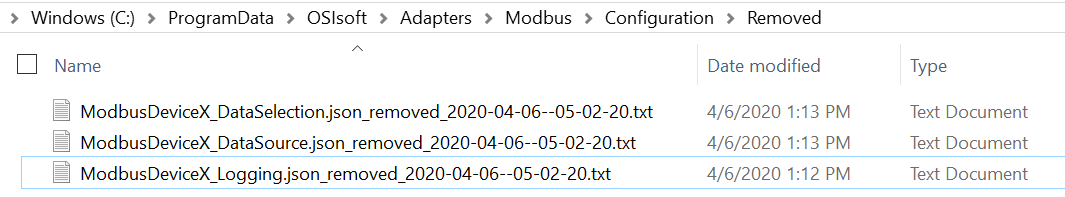
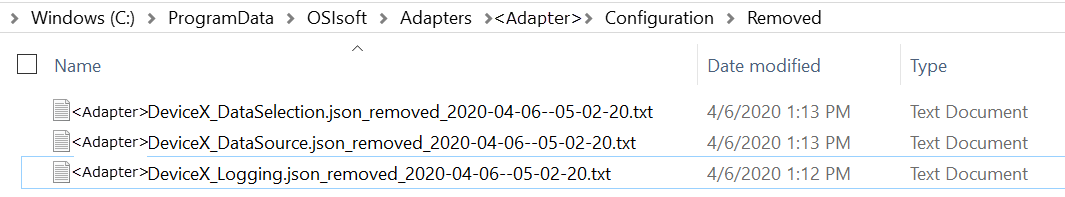
Updated componentId to ComponentId

diff --git a/V1.3/Configuration/system-components-configuration.md b/V1.3/Configuration/system-components-configuration.md
@@ -51,14 +51,14 @@ Complete the following steps to add a new component to the system:
         curl -d "@AddComponent.json" -H "Content-Type: application/json" -X POST "http://localhost:5590/api/v1/configuration/system/components"
         ```
 
-    - **PUT** endpoint: `http://localhost:5590/api/v1/configuration/system/components/<componentId>`
+    - **PUT** endpoint: `http://localhost:5590/api/v1/configuration/system/components/<ComponentId>`
 
         Example using `curl`:
 
         **Note:** Run this command from the same directory where the file is located.
 
         ```bash
-        curl -d "@AddComponent.json" -H "Content-Type: application/json" -X PUT "http://localhost:5590/api/v1/configuration/system/components/<componentId>"
+        curl -d "@AddComponent.json" -H "Content-Type: application/json" -X PUT "http://localhost:5590/api/v1/configuration/system/components/<ComponentId>"
         ```
 
     After the curl command completes successfully, you can configure or use the new component.
@@ -103,7 +103,7 @@ Complete the following steps to delete a specific existing component:
     *Delete adapter component*
   
     ```bash
-    curl -X DELETE "http://localhost:5590/api/v1/configuration/system/components/<componentId>/"
+    curl -X DELETE "http://localhost:5590/api/v1/configuration/system/components/<ComponentId>/"
     ```
 
     All the logs and configurations files for the deleted components are moved to the corresponding _logs/Removed_ or _Configuration/Removed_ folder.
@@ -168,5 +168,5 @@ The default _System_Components.json_ file for the System component contains the 
 | api/v1/configuration/system/components | GET | Retrieves  the system components configuration |
 | api/v1/configuration/system/components | POST | Adds a new component to the system configuration |
 | api/v1/configuration/system/components | PUT | Updates the system components configuration |
-| api/v1/configuration/system/components/_componentId_ | DELETE | Deletes a specific component from the system components configuration |
-| api/v1/configuration/system/components/_componentId_ | PUT | Creates a new component with the specified *componentId* in the system configuration
+| api/v1/configuration/system/components/_ComponentId_ | DELETE | Deletes a specific component from the system components configuration |
+| api/v1/configuration/system/components/_ComponentId_ | PUT | Creates a new component with the specified *ComponentId* in the system configuration

diff --git a/V1.4/Configuration/system-components-configuration.md b/V1.4/Configuration/system-components-configuration.md
@@ -51,14 +51,14 @@ Complete the following steps to add a new component to the system:
         curl -d "@AddComponent.json" -H "Content-Type: application/json" -X POST "http://localhost:5590/api/v1/configuration/system/components"
         ```
 
-    - **PUT** endpoint: `http://localhost:5590/api/v1/configuration/system/components/<componentId>`
+    - **PUT** endpoint: `http://localhost:5590/api/v1/configuration/system/components/<ComponentId>`
 
         Example using `curl`:
 
         **Note:** Run this command from the same directory where the file is located.
 
         ```bash
-        curl -d "@AddComponent.json" -H "Content-Type: application/json" -X PUT "http://localhost:5590/api/v1/configuration/system/components/<componentId>"
+        curl -d "@AddComponent.json" -H "Content-Type: application/json" -X PUT "http://localhost:5590/api/v1/configuration/system/components/<ComponentId>"
         ```
 
     After the curl command completes successfully, you can configure or use the new component.
@@ -103,7 +103,7 @@ Complete the following steps to delete a specific existing component:
     *Delete adapter component*
   
     ```bash
-    curl -X DELETE "http://localhost:5590/api/v1/configuration/system/components/<componentId>/"
+    curl -X DELETE "http://localhost:5590/api/v1/configuration/system/components/<ComponentId>/"
     ```
 
     All the logs and configurations files for the deleted components are moved to the corresponding _logs/Removed_ or _Configuration/Removed_ folder.
@@ -168,5 +168,5 @@ The default _System_Components.json_ file for the System component contains the 
 | api/v1/configuration/system/components | GET | Retrieves  the system components configuration |
 | api/v1/configuration/system/components | POST | Adds a new component to the system configuration |
 | api/v1/configuration/system/components | PUT | Updates the system components configuration |
-| api/v1/configuration/system/components/_componentId_ | DELETE | Deletes a specific component from the system components configuration |
-| api/v1/configuration/system/components/_componentId_ | PUT | Creates a new component with the specified *componentId* in the system configuration
+| api/v1/configuration/system/components/_ComponentId_ | DELETE | Deletes a specific component from the system components configuration |
+| api/v1/configuration/system/components/_ComponentId_ | PUT | Creates a new component with the specified *ComponentId* in the system configuration

diff --git a/V1.3/Administration/start-and-stop-ingress-component.md b/V1.3/Administration/start-and-stop-ingress-component.md
@@ -11,7 +11,7 @@ To control data ingress, you can start and stop the ingress components of an ada
 Complete the following steps to start an individual ingress component:
 
 1. Use any of the [Configuration tools](xref:ConfigurationTools1-3) capable of making HTTP requests.
-2. Run a `POST` command to the following endpoint, replacing `<componentId>` with the ingress component that you want to start: `http://localhost:5590/api/v1/administration/<componentId>/Start`
+2. Run a `POST` command to the following endpoint, replacing `<ComponentId>` with the ingress component that you want to start: `http://localhost:5590/api/v1/Administration/<ComponentId>/Start`
 
     **Note:** `5590` is the default port number. If you selected a different port number, replace it with that value.
 
@@ -20,7 +20,7 @@ Complete the following steps to start an individual ingress component:
     **Start the adapter ingress component**
 
     ```bash
-    curl -d "" -X POST "http://localhost:5590/api/v1/Administration/<componentId>/Start"
+    curl -d "" -X POST "http://localhost:5590/api/v1/Administration/<ComponentId>/Start"
     ```
 
 ## Stop an ingress component
@@ -29,7 +29,7 @@ Complete the following steps to stop an individual ingress component:
 
 1. Start any configuration tool capable of making HTTP requests.
 
-2. Run a `POST` command to the following endpoint, replacing `<componentId>` with the ingress component that you want to stop: `http://localhost:5590/api/v1/administration/<componentId>/Stop`
+2. Run a `POST` command to the following endpoint, replacing `<ComponentId>` with the ingress component that you want to stop: `http://localhost:5590/api/v1/Administration/<ComponentId>/Stop`
 
     **Note:** `5590` is the default port number. If you selected a different port number, replace it with that value.
 
@@ -38,5 +38,5 @@ Complete the following steps to stop an individual ingress component:
     **Stop the adapter ingress component**
 
     ```bash
-    curl -d "" -X POST "http://localhost:5590/api/v1/Administration/<componentId>/Stop"
+    curl -d "" -X POST "http://localhost:5590/api/v1/Administration/<ComponentId>/Stop"
     ```

diff --git a/V1.4/Administration/start-and-stop-ingress-component.md b/V1.4/Administration/start-and-stop-ingress-component.md
@@ -11,7 +11,7 @@ To control data ingress, you can start and stop the ingress components of an ada
 Complete the following steps to start an individual ingress component:
 
 1. Use any of the [Configuration tools](xref:ConfigurationTools1-4) capable of making HTTP requests.
-2. Run a `POST` command to the following endpoint, replacing `<componentId>` with the ingress component that you want to start: `http://localhost:5590/api/v1/administration/<componentId>/Start`
+2. Run a `POST` command to the following endpoint, replacing `<ComponentId>` with the ingress component that you want to start: `http://localhost:5590/api/v1/administration/<ComponentId>/Start`
 
     **Note:** `5590` is the default port number. If you selected a different port number, replace it with that value.
 
@@ -20,7 +20,7 @@ Complete the following steps to start an individual ingress component:
     **Start the adapter ingress component**
 
     ```bash
-    curl -d "" -X POST "http://localhost:5590/api/v1/Administration/<componentId>/Start"
+    curl -d "" -X POST "http://localhost:5590/api/v1/Administration/<ComponentId>/Start"
     ```
 
 ## Stop an ingress component
@@ -29,7 +29,7 @@ Complete the following steps to stop an individual ingress component:
 
 1. Start any configuration tool capable of making HTTP requests.
 
-2. Run a `POST` command to the following endpoint, replacing `<componentId>` with the ingress component that you want to stop: `http://localhost:5590/api/v1/administration/<componentId>/Stop`
+2. Run a `POST` command to the following endpoint, replacing `<ComponentId>` with the ingress component that you want to stop: `http://localhost:5590/api/v1/administration/<ComponentId>/Stop`
 
     **Note:** `5590` is the default port number. If you selected a different port number, replace it with that value.
 
@@ -38,5 +38,5 @@ Complete the following steps to stop an individual ingress component:
     **Stop the adapter ingress component**
 
     ```bash
-    curl -d "" -X POST "http://localhost:5590/api/v1/Administration/<componentId>/Stop"
+    curl -d "" -X POST "http://localhost:5590/api/v1/Administration/<ComponentId>/Stop"
     ```

diff --git a/V1.4/Administration/delete-an-adapter-component.md b/V1.4/Administration/delete-an-adapter-component.md
@@ -19,7 +19,7 @@ Complete the following steps to delete an adapter component:
     **Delete an adapter component**
 
       ```bash
-      curl -X DELETE "http://localhost:5590/api/v1/configuration/system/components/<componentId>"
+      curl -X DELETE "http://localhost:5590/api/v1/configuration/system/components/<ComponentId>"
       ```
 
 ## File relocation
@@ -38,9 +38,7 @@ Log files are moved to the following location:
 
    **Linux:** `/usr/share/OSIsoft/Adapters/AdapterName/Logs/Removed`
 
-In the following example, one Modbus adapter service is installed on a particular Windows node with the name `ModbusService1`. A Modbus component with the name `ModbusDeviceX` was added and configured to this Modbus adapter and later removed. Linux follows a similar behavior. This is the resulting relocation and renaming scheme after deletion:
-
-**Note:** This is an example; it does not necessarily represent the adapter that you are currently using.
+In the following example, one adapter service is installed on a particular Windows node with the name `<Adapter>Service1`. An adapter component with the name `<Adapter>DeviceX` was added and configured to this adapter and later removed. Linux follows a similar behavior. This is the resulting relocation and renaming scheme after deletion:
 
 ![ConfigurationFolder](../images/configuration-folder.png)
 
@@ -50,7 +48,6 @@ In the following example, one Modbus adapter service is installed on a particula
 
 ![RemovedLogs](../images/removed-logs.png)
  
-
 ## REST URLs
 
 | Relative URL                                              | HTTP verb | Action               |

diff --git a/V1/Administration/delete-an-adapter-component.md b/V1/Administration/delete-an-adapter-component.md
@@ -19,7 +19,7 @@ Complete the following steps to delete an adapter component:
     **Delete an adapter component**
 
       ```bash
-      curl -X DELETE "http://localhost:5590/api/v1/configuration/system/components/<componentId>"
+      curl -X DELETE "http://localhost:5590/api/v1/configuration/system/components/<ComponentId>"
       ```
 
 ## File relocation
@@ -38,9 +38,7 @@ Log files are moved to the following location:
 
    **Linux:** `/usr/share/OSIsoft/Adapters/AdapterName/Logs/Removed`
 
-In the following example, one Modbus adapter service is installed on a particular Windows node with the name `ModbusService1`. A Modbus component with the name `ModbusDeviceX` was added and configured to this Modbus adapter and later removed. Linux follows a similar behavior. This is the resulting relocation and renaming scheme after deletion:
-
-**Note:** This is an example; it does not necessarily represent the adapter that you are currently using.
+In the following example, one adapter service is installed on a particular Windows node with the name `<Adapter>Service1`. An adapter component with the name `<Adapter>DeviceX` was added and configured to this adapter and later removed. Linux follows a similar behavior. This is the resulting relocation and renaming scheme after deletion:
 
 ![ConfigurationFolder](../images/configuration-folder.png)
 
@@ -50,7 +48,6 @@ In the following example, one Modbus adapter service is installed on a particula
 
 ![RemovedLogs](../images/removed-logs.png)
  
-
 ## REST URLs
 
 | Relative URL                                              | HTTP verb | Action               |

diff --git a/V1/Configuration/system-components-configuration.md b/V1/Configuration/system-components-configuration.md
@@ -51,14 +51,14 @@ Complete the following steps to add a new component to the system:
         curl -d "@AddComponent.json" -H "Content-Type: application/json" -X POST "http://localhost:5590/api/v1/configuration/system/components"
         ```
 
-    - **PUT** endpoint: `http://localhost:5590/api/v1/configuration/system/components/<componentId>`
+    - **PUT** endpoint: `http://localhost:5590/api/v1/configuration/system/components/<ComponentId>`
 
         Example using `curl`:
 
         **Note:** Run this command from the same directory where the file is located.
 
         ```bash
-        curl -d "@AddComponent.json" -H "Content-Type: application/json" -X PUT "http://localhost:5590/api/v1/configuration/system/components/<componentId>"
+        curl -d "@AddComponent.json" -H "Content-Type: application/json" -X PUT "http://localhost:5590/api/v1/configuration/system/components/<ComponentId>"
         ```
 
     After the curl command completes successfully, you can configure or use the new component.
@@ -103,7 +103,7 @@ Complete the following steps to delete a specific existing component:
     *Delete adapter component*
   
     ```bash
-    curl -X DELETE "http://localhost:5590/api/v1/configuration/system/components/<componentId>/"
+    curl -X DELETE "http://localhost:5590/api/v1/configuration/system/components/<ComponentId>/"
     ```
 
     All the logs and configurations files for the deleted components are moved to the corresponding _logs/Removed_ or _Configuration/Removed_ folder.

diff --git a/V1/Administration/start-and-stop-ingress-component.md b/V1/Administration/start-and-stop-ingress-component.md
@@ -11,7 +11,7 @@ To control data ingress, you can start and stop the ingress components of an ada
 Complete the following steps to start an individual ingress component:
 
 1. Use any of the [Configuration tools](xref:ConfigurationTools) capable of making HTTP requests.
-2. Run a `POST` command to the following endpoint, replacing `<componentId>` with the ingress component that you want to start: `http://localhost:5590/api/v1/administration/<componentId>/Start`
+2. Run a `POST` command to the following endpoint, replacing `<ComponentId>` with the ingress component that you want to start: `http://localhost:5590/api/v1/Administration/<ComponentId>/Start`
 
     **Note:** `5590` is the default port number. If you selected a different port number, replace it with that value.
 
@@ -29,7 +29,7 @@ Complete the following steps to stop an individual ingress component:
 
 1. Start any configuration tool capable of making HTTP requests.
 
-2. Run a `POST` command to the following endpoint, replacing `<componentId>` with the ingress component that you want to stop: `http://localhost:5590/api/v1/administration/<componentId>/Stop`
+2. Run a `POST` command to the following endpoint, replacing `<ComponentId>` with the ingress component that you want to stop: `http://localhost:5590/api/v1/administration/<ComponentId>/Stop`
 
     **Note:** `5590` is the default port number. If you selected a different port number, replace it with that value.
 

diff --git a/V1.3/Configuration/discovery-configuration.md b/V1.3/Configuration/discovery-configuration.md
@@ -70,7 +70,7 @@ The following example shows the status of all discoveries. The discovery id in t
         "itemsFound": 4,
         "newItems": 0,
         "newAssets": 0,
-        "resultUri": "http://127.0.0.1:5590/api/v1/Configuration/<componentId>/Discoveries/8ff855f1-a636-490a-bb31-207410a6e607/result",
+        "resultUri": "http://127.0.0.1:5590/api/v1/Configuration/<ComponentId>/Discoveries/8ff855f1-a636-490a-bb31-207410a6e607/result",
         "autoSelect": false,
         "status": "Complete",
         "errors": null
@@ -94,4 +94,4 @@ The following example shows the status of all discoveries. The discovery id in t
 | api/v1/configuration/_componentId_/dataselection/select?discoveryid=_discoveryId_     | POST      | Adds the discovered items to data selection with selected set to `true`                                                                   |
 | api/v1/configuration/_componentId_/dataselection/unselect?discoveryid=_discoveryId_   | POST      | Adds the discovered items to data selection with selected set to `false`
 
-**Note:** Replace _componentId_ with the Id of your adapter component.<br>Replace _discoveryId_ with the Id of the discovery for which you want to perform the action.
+**Note:** Replace _ComponentId_ with the Id of your adapter component.<br>Replace _DiscoveryId_ with the Id of the discovery for which you want to perform the action.

diff --git a/V1.4/Configuration/discovery-configuration.md b/V1.4/Configuration/discovery-configuration.md
@@ -70,7 +70,7 @@ The following example shows the status of all discoveries. The discovery id in t
         "itemsFound": 4,
         "newItems": 0,
         "newAssets": 0,
-        "resultUri": "http://127.0.0.1:5590/api/v1/Configuration/<componentId>/Discoveries/8ff855f1-a636-490a-bb31-207410a6e607/result",
+        "resultUri": "http://127.0.0.1:5590/api/v1/Configuration/<ComponentId>/Discoveries/8ff855f1-a636-490a-bb31-207410a6e607/result",
         "autoSelect": false,
         "status": "Complete",
         "errors": null
@@ -94,4 +94,4 @@ The following example shows the status of all discoveries. The discovery id in t
 | api/v1/configuration/_componentId_/dataselection/select?discoveryid=_discoveryId_     | POST      | Adds the discovered items to data selection with selected set to `true`                                                                   |
 | api/v1/configuration/_componentId_/dataselection/unselect?discoveryid=_discoveryId_   | POST      | Adds the discovered items to data selection with selected set to `false`
 
-**Note:** Replace _componentId_ with the Id of your adapter component.<br>Replace _discoveryId_ with the Id of the discovery for which you want to perform the action.
+**Note:** Replace _ComponentId_ with the Id of your adapter component.<br>Replace _DiscoveryId_ with the Id of the discovery for which you want to perform the action.

diff --git a/V1.3/Administration/delete-an-adapter-component.md b/V1.3/Administration/delete-an-adapter-component.md
@@ -19,7 +19,7 @@ Complete the following steps to delete an adapter component:
     **Delete an adapter component**
 
       ```bash
-      curl -X DELETE "http://localhost:5590/api/v1/configuration/system/components/<componentId>"
+      curl -X DELETE "http://localhost:5590/api/v1/configuration/system/components/<ComponentId>"
       ```
 
 ## File relocation
@@ -38,9 +38,7 @@ Log files are moved to the following location:
 
    **Linux:** `/usr/share/OSIsoft/Adapters/AdapterName/Logs/Removed`
 
-In the following example, one Modbus adapter service is installed on a particular Windows node with the name `ModbusService1`. A Modbus component with the name `ModbusDeviceX` was added and configured to this Modbus adapter and later removed. Linux follows a similar behavior. This is the resulting relocation and renaming scheme after deletion:
-
-**Note:** This is an example; it does not necessarily represent the adapter that you are currently using.
+In the following example, one adapter service is installed on a particular Windows node with the name `<Adapter>Service1`. An adapter component with the name `<Adapter>DeviceX` was added and configured to this adapter and later removed. Linux follows a similar behavior. This is the resulting relocation and renaming scheme after deletion:
 
 ![ConfigurationFolder](../images/configuration-folder.png)
 
